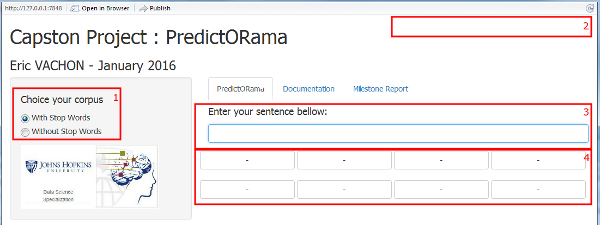
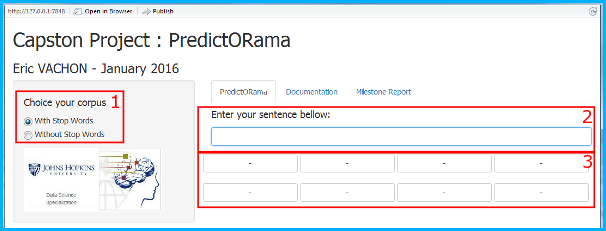
Project OK

Changed region(s): [[0.0, 0.0, 1.0, 1.0], [0.06, 0.84, 0.15, 0.9022], [0.21, 0.8711, 0.24, 0.9022]]

diff --git a/slides.html b/slides.html
@@ -91,9 +91,9 @@ aside.gdbar img {
 
 <p><br>
 The aim of this project is to use three datasets from  <a href="https://d396qusza40orc.cloudfront.net/dsscapstone/dataset/Coursera-SwiftKey.zip">SwiftKey</a> to create a algorithm to predict the next word of a sentence. 
-For exemple, if we give to the algorithm : &quot;i love&quot; may be if we train the algorithm with love letters, it will give us for exemple the next word : &quot;you&quot;.</p>
+For exemple, if we give to the algorithm : &quot;i love&quot; and if we train the algorithm with love letters, it may give us the next word : &quot;you&quot;.</p>
 
-<p>To realize this, we create two clean data sets of <a href="https://en.wikipedia.org/wiki/N-gram">1-gram, 2-gram, 3-gram and 4-gram</a> : one with <a href="https://en.wikipedia.org/wiki/Stop_words">stop words</a> and another without. The shiny app provide to compare results between this two data sets (with and without stop words).  </p>
+<p>To realize this, we create two clean data sets of <a href="https://en.wikipedia.org/wiki/N-gram">1-gram, 2-gram, 3-gram and 4-gram</a> : one with <a href="https://en.wikipedia.org/wiki/Stop_words">stop words</a> and another without. <a href="https://ervachon.shinyapps.io/Capston_Project">The Shiny App</a> provide to compare results between this two data sets (with and without stop words).  </p>
 
 <p>NB: a n-gram is a (n-1)-gram + 1-gram.   </p>
 
@@ -112,17 +112,17 @@ For exemple, if we give to the algorithm : &quot;i love&quot; may be if we train
 
 <p>The first step of this work is to clean data :<br>
 1. we change the case of the text to lower<br>
-2. we remove punctuation, numbers, stopwords  and multiple whitespace.<br>
+2. we remove punctuation, numbers, stopwords (or not)  and multiple whitespace.<br>
 We optimize the time of gramization by using the R libraries <a href="https://stat.ethz.ch/R-manual/R-devel/library/parallel/doc/parallel.pdf">parallel</a>, <a href="https://cran.r-project.org/web/packages/doParallel/index.html">doParallel</a> and <a href="https://cran.r-project.org/web/packages/foreach/index.html">foreach</a>.</p>
 
 <h3><u>Prediction</u></h3>
 
 <ol>
-<li>apply to the user sentence the same transformation as the corpus creation</li>
-<li>take the 3 last words of the sentence</li>
-<li>find this 3-gram as the 3 begining words on the 4-gram corpus</li>
-<li>if find all 4-gram (max 7 res)and add them into result set</li>
-<li>repeat 2. to 6 with 3-gram and 2-gram until 7 results find or all corpus analysed</li>
+<li>apply to the user sentence the same transformation as the corpus creation,</li>
+<li>take the 3 last words of the sentence,</li>
+<li>find this 3-gram as the 3 begining words on the 4-gram corpus,</li>
+<li>if find all 4-gram (max 7 res)and add them into result set,</li>
+<li>repeat 2. to 6 with 3-gram and 2-gram until 7 results find or all corpus analysed.</li>
 </ol>
 
   </article>
@@ -134,13 +134,12 @@ We optimize the time of gramization by using the R libraries <a href="https://st
     <h2>PredictORama : Shiny app</h2>
   </hgroup>
   <article data-timings="">
-    <p><img src="./assets/img/PredictORama2.png" alt=""><br>
-First you choice on the left which corpus you want to use : with or without stop words.<br>
-Next simply write a sentence on the &quot;sentence&quot; box and wait a little the eight buttons on the bottom will have their label update by the eight best predict words. If you click on a button you add the word to your sentence and you can repeat if you want. </p>
+    <p><a href="https://ervachon.shinyapps.io/Capston_Project"><img src="./assets/img/PredictORama2.png" alt=""></a>
+First you choice on the sidebarPanel which corpus you want to use: with or without stop words. <strong>WAIT</strong> a few seconds until <font color="red"><strong>&quot;Wait CORPUS is loading&quot;</strong></font> is gone. Next write a sentence on the &quot;sentence&quot; box and wait until the eight buttons labels are update with the best predict words. Then you can click on a button to add the word at the end of your sentence. </p>
 
 <h3><u>Memory optimisation</u></h3>
 
-<p>To optimize the memory of <a href="https://ervachon.shinyapps.io/Capston_Project">The Shiny App</a>, we truncate the n-gram corpus:  we select only 1-gram with minimum 2 occurences, 2-gram with 4, 3-gram with 5 and 4-gram with 5.</p>
+<p>To optimize the memory of <a href="https://ervachon.shinyapps.io/Capston_Project">The Shiny App</a>, we truncate the n-gram corpus, for example  we select only 2-gram with minimum 4 occurences.</p>
 
   </article>
   <!-- Presenter Notes -->
@@ -154,10 +153,10 @@ Next simply write a sentence on the &quot;sentence&quot; box and wait a little t
     <p>The are a lot&#39;s of perspectives with this study, for example :  </p>
 
 <ul>
-<li>using more algorithms to predict like linear interpolation, smoothing (good turing, ...) </li>
+<li>tryiong more predict algorithms like linear interpolation, smoothing (good turing, ...) </li>
 <li>learn from user sentences and save into corpus<br></li>
 <li>use more corpus to enhance our n-gram corpus<br></li>
-<li>use a hadoop cluster to spend less time to gramimzation (instead of using R parallelisation)<br></li>
+<li>use a hadoop cluster to spend less time to gramization (instead of using R parallelisation)<br></li>
 <li>use the complete n-gram corpus and not truncate one (cause of shiny memory optimization)</li>
 <li>and many more ...</li>
 </ul>

diff --git a/shinyApp/www/documentation.html b/shinyApp/www/documentation.html
@@ -9,20 +9,24 @@
 <img src=load_corpus.png>
 <p><p>
 
-<h4><u>2. Wait until "Wait CORPUS is loading !!!" is on the screen <font color="red">(2)</font></u></h4>
+<h4><u>2. Wait until "Wait CORPUS is loading !!!" is on the screen</u></h4>
 <img src=load.png><br>
 <p><p>
 
-<h4><u>3. Enter you sentence here <font color="red">(3)</font></u></h4>
+<h4><u>3. Enter you sentence here <font color="red">(2)</font></u></h4>
 <img src=click_before.png>
 <p><p>
 
-<h4><u>4. Click on the predict word you want to add to your sentence <font color="red">(4)</font></u></h4>
+<h4><u>4. Click on the predict word you want to add to your sentence <font color="red">(3)</font></u></h4>
 <img src=click_after.png><br>
 the predict word are sort from left to rigth and top to bottom as bellow.<br>
-1 2 3 4<br>
-5 6 7 8
-<p><p>
-
+<li>1: and
+<li>2: the
+<li>3: is
+<li>4: to
+<li>5: but
+<li>6: in
+<li>7: you
+<li>8: i
 </BODY>
 </HTML>
